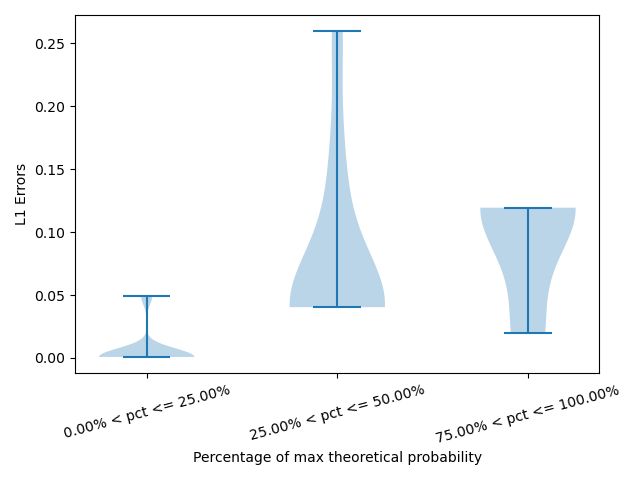
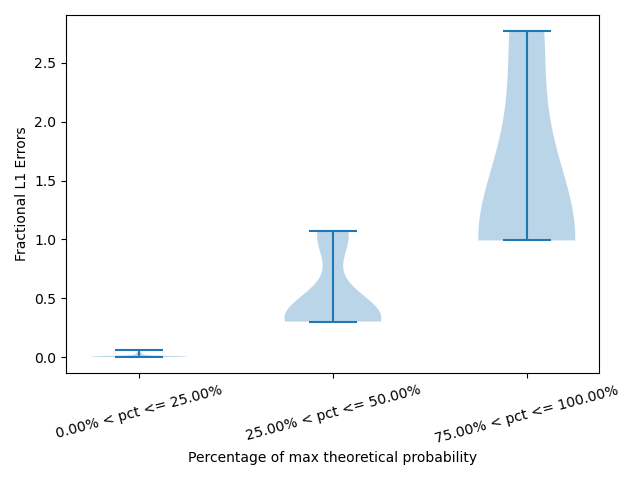
visualize errors per prob interval

diff --git a/gfn.py b/gfn.py
@@ -549,12 +549,12 @@ def _plot_l1_errors_per_probability_interval(agent_prob, env_prob, filename, n_i
     starts = interval_edges[:-1]
     ends = interval_edges[1:]
 
-    l1_errors = np.abs(result - expected)
+    frac_l1_errors = np.abs(result - expected) / max_expected
     errors = []
     labels = []
     for s, e in zip(starts, ends):
         inds = np.where((s < expected_pcts) & (expected_pcts <= e))
-        errors_per_interval = l1_errors[inds]
+        errors_per_interval = frac_l1_errors[inds]
         if len(errors_per_interval):
             interval_label = f"{s:.2f}% < pct <= {e:.2f}%"
             errors.append(errors_per_interval)
@@ -564,7 +564,7 @@ def _plot_l1_errors_per_probability_interval(agent_prob, env_prob, filename, n_i
     fig, ax = plt.subplots()
     ax.violinplot(errors)
     ax.set_xticks(np.arange(1, len(labels) + 1), labels=labels, rotation=15)
-    ax.set_ylabel("L1 Errors")
+    ax.set_ylabel("Fractional L1 Errors")
     ax.set_xlabel("Percentage of max theoretical probability")
     plt.tight_layout()
     fig.savefig(f"./plot_results/{filename}")

diff --git a/test.py b/test.py
@@ -1,11 +1,11 @@
 from gfn import GFNAgent, _plot_l1_errors_per_probability_interval
 
 def test_model_only_finds_one_mode():
-    agent = GFNAgent(epochs=20)
-    agent.sample(10)
+    agent = GFNAgent(epochs=1000)
+    agent.sample(20)
     agent.train()
     agent_prob, env_prob = agent.compare_env_to_model_policy(
-        sample_size=20, plot_filename="plot_results/one_mode.png"
+        sample_size=5000, plot_filename="plot_results/one_mode.png"
     )
     # Note l1 errors when modes are not all (or correctly) captured
     _plot_l1_errors_per_probability_interval(
@@ -14,8 +14,11 @@ def test_model_only_finds_one_mode():
 
 def test_all_modes():
     agent = GFNAgent(epochs=1000)
-    agent.sample(50)
+    agent.sample(5000)
     agent.train()
     agent_prob, env_prob = agent.compare_env_to_model_policy(
         sample_size=5000, plot_filename="plot_results/all_modes.png"
+    )
+    _plot_l1_errors_per_probability_interval(
+        agent_prob, env_prob, "all_mode_errors.png", n_intervals=4
     )
